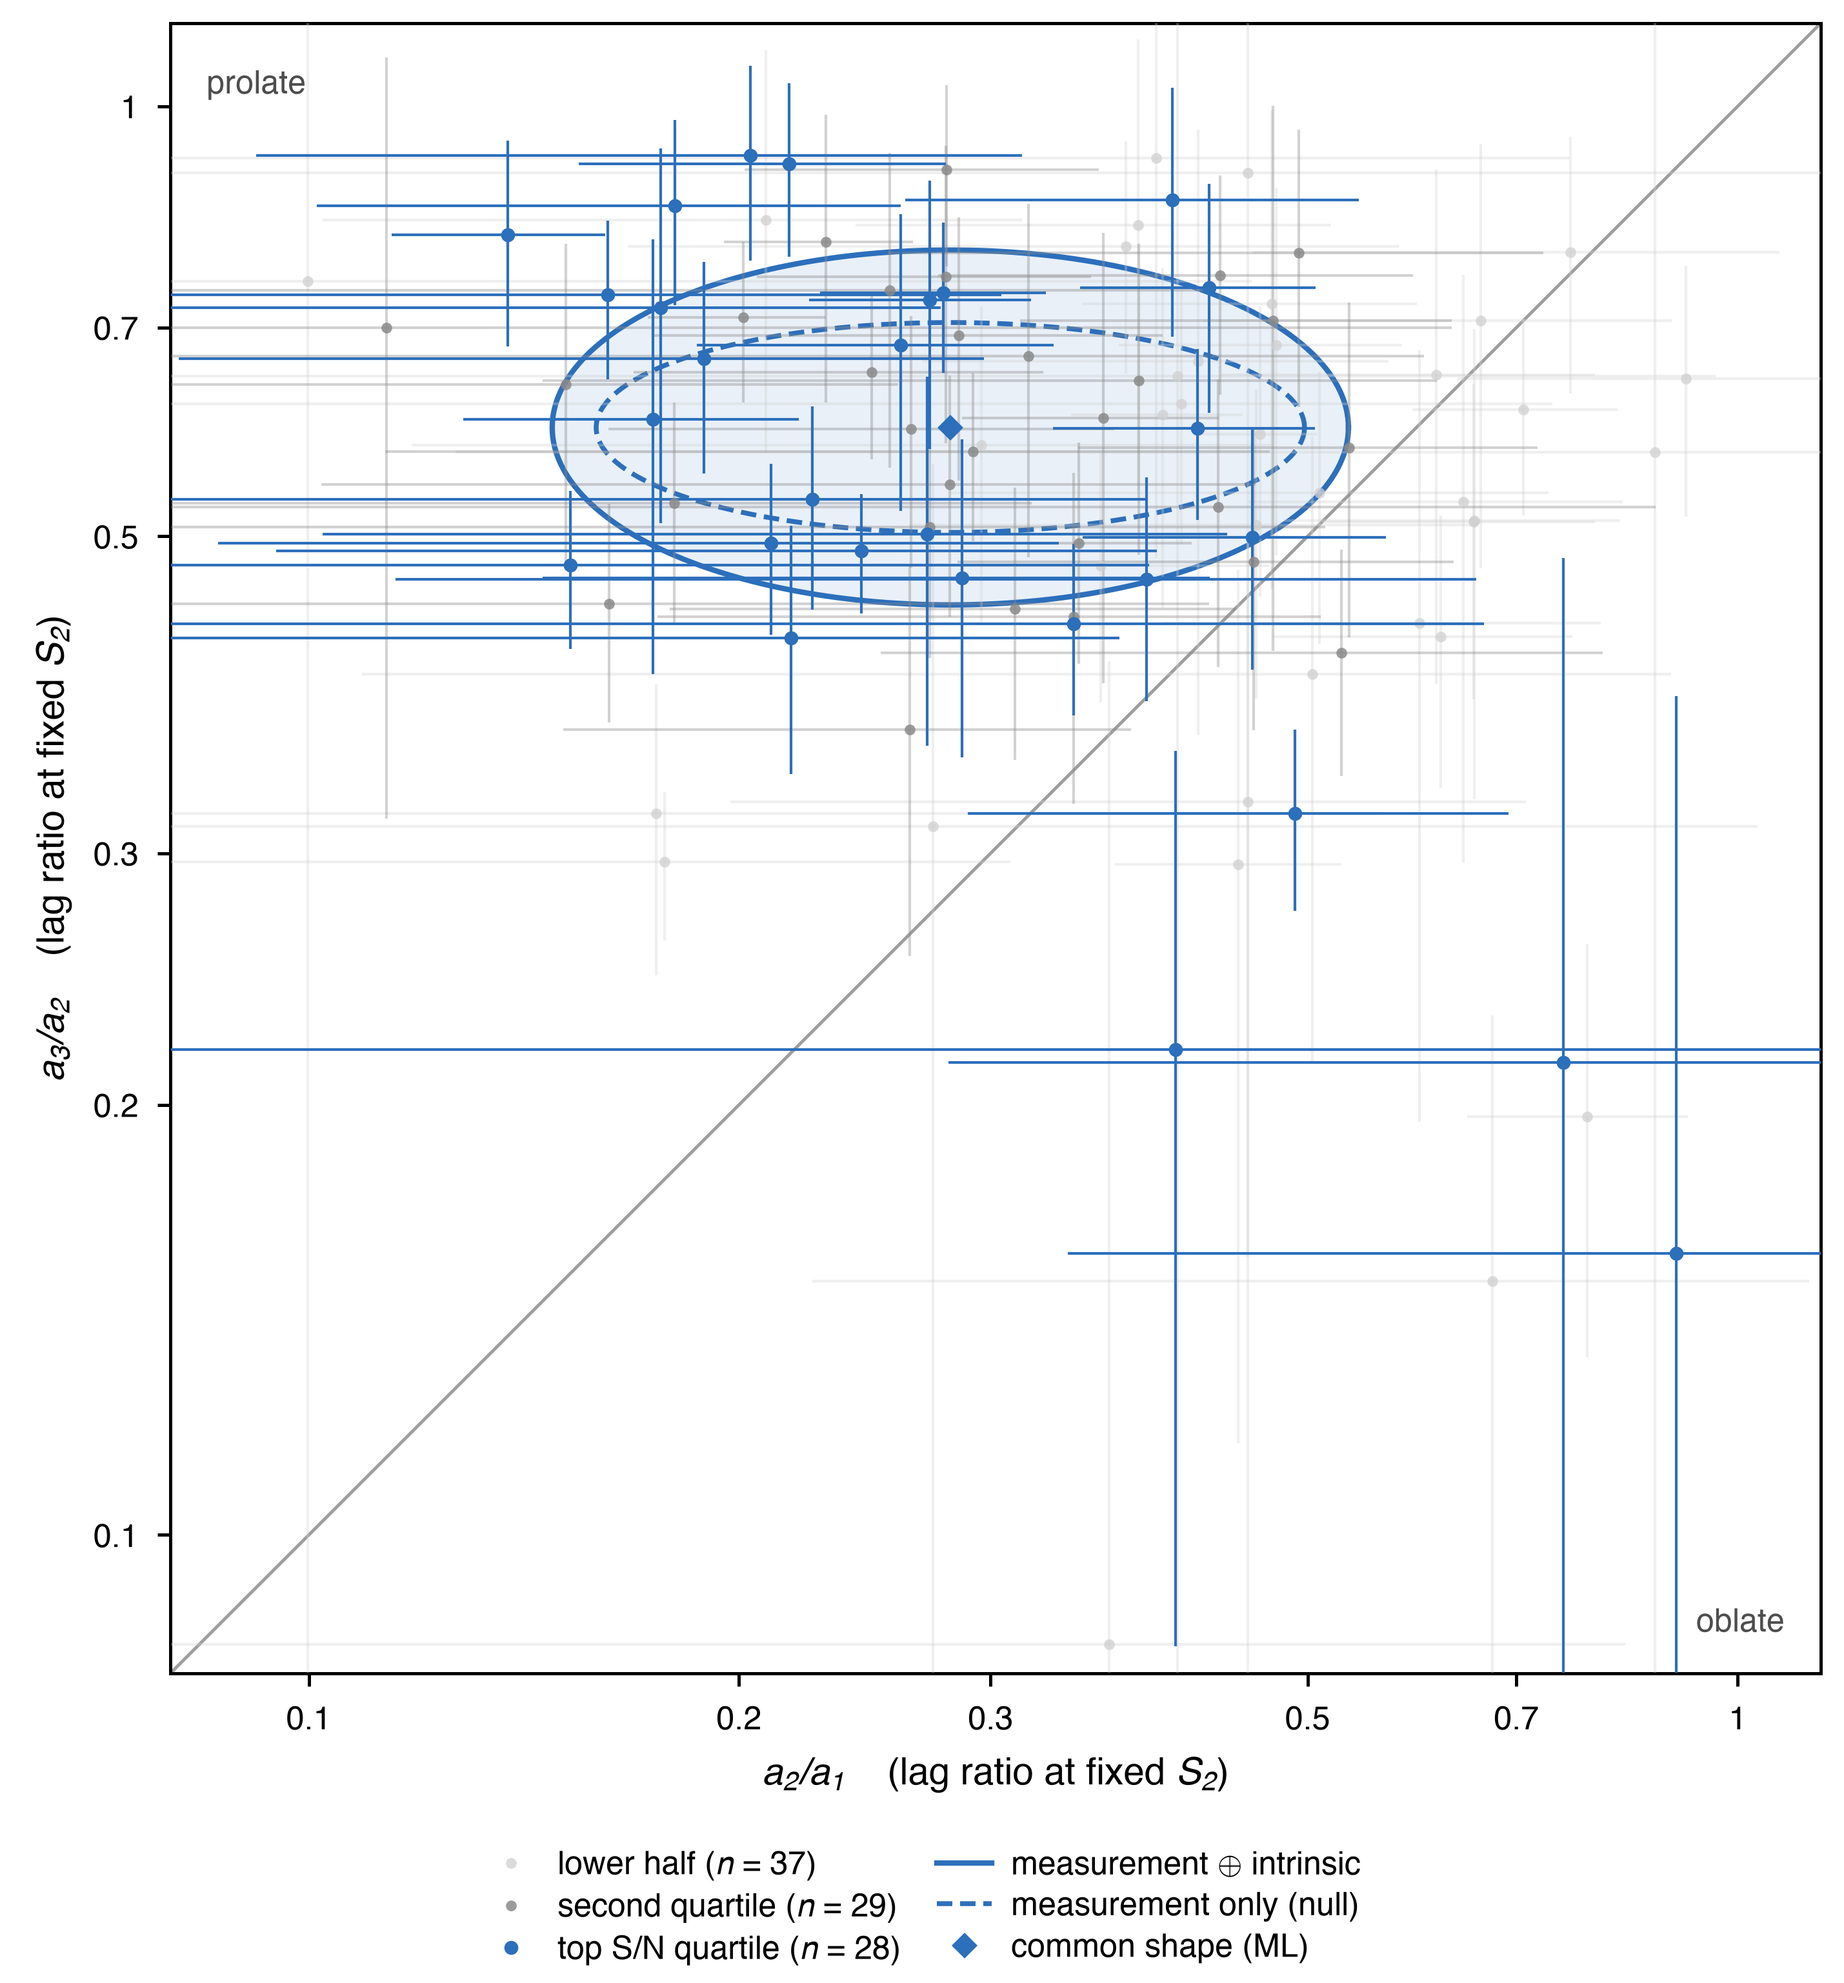
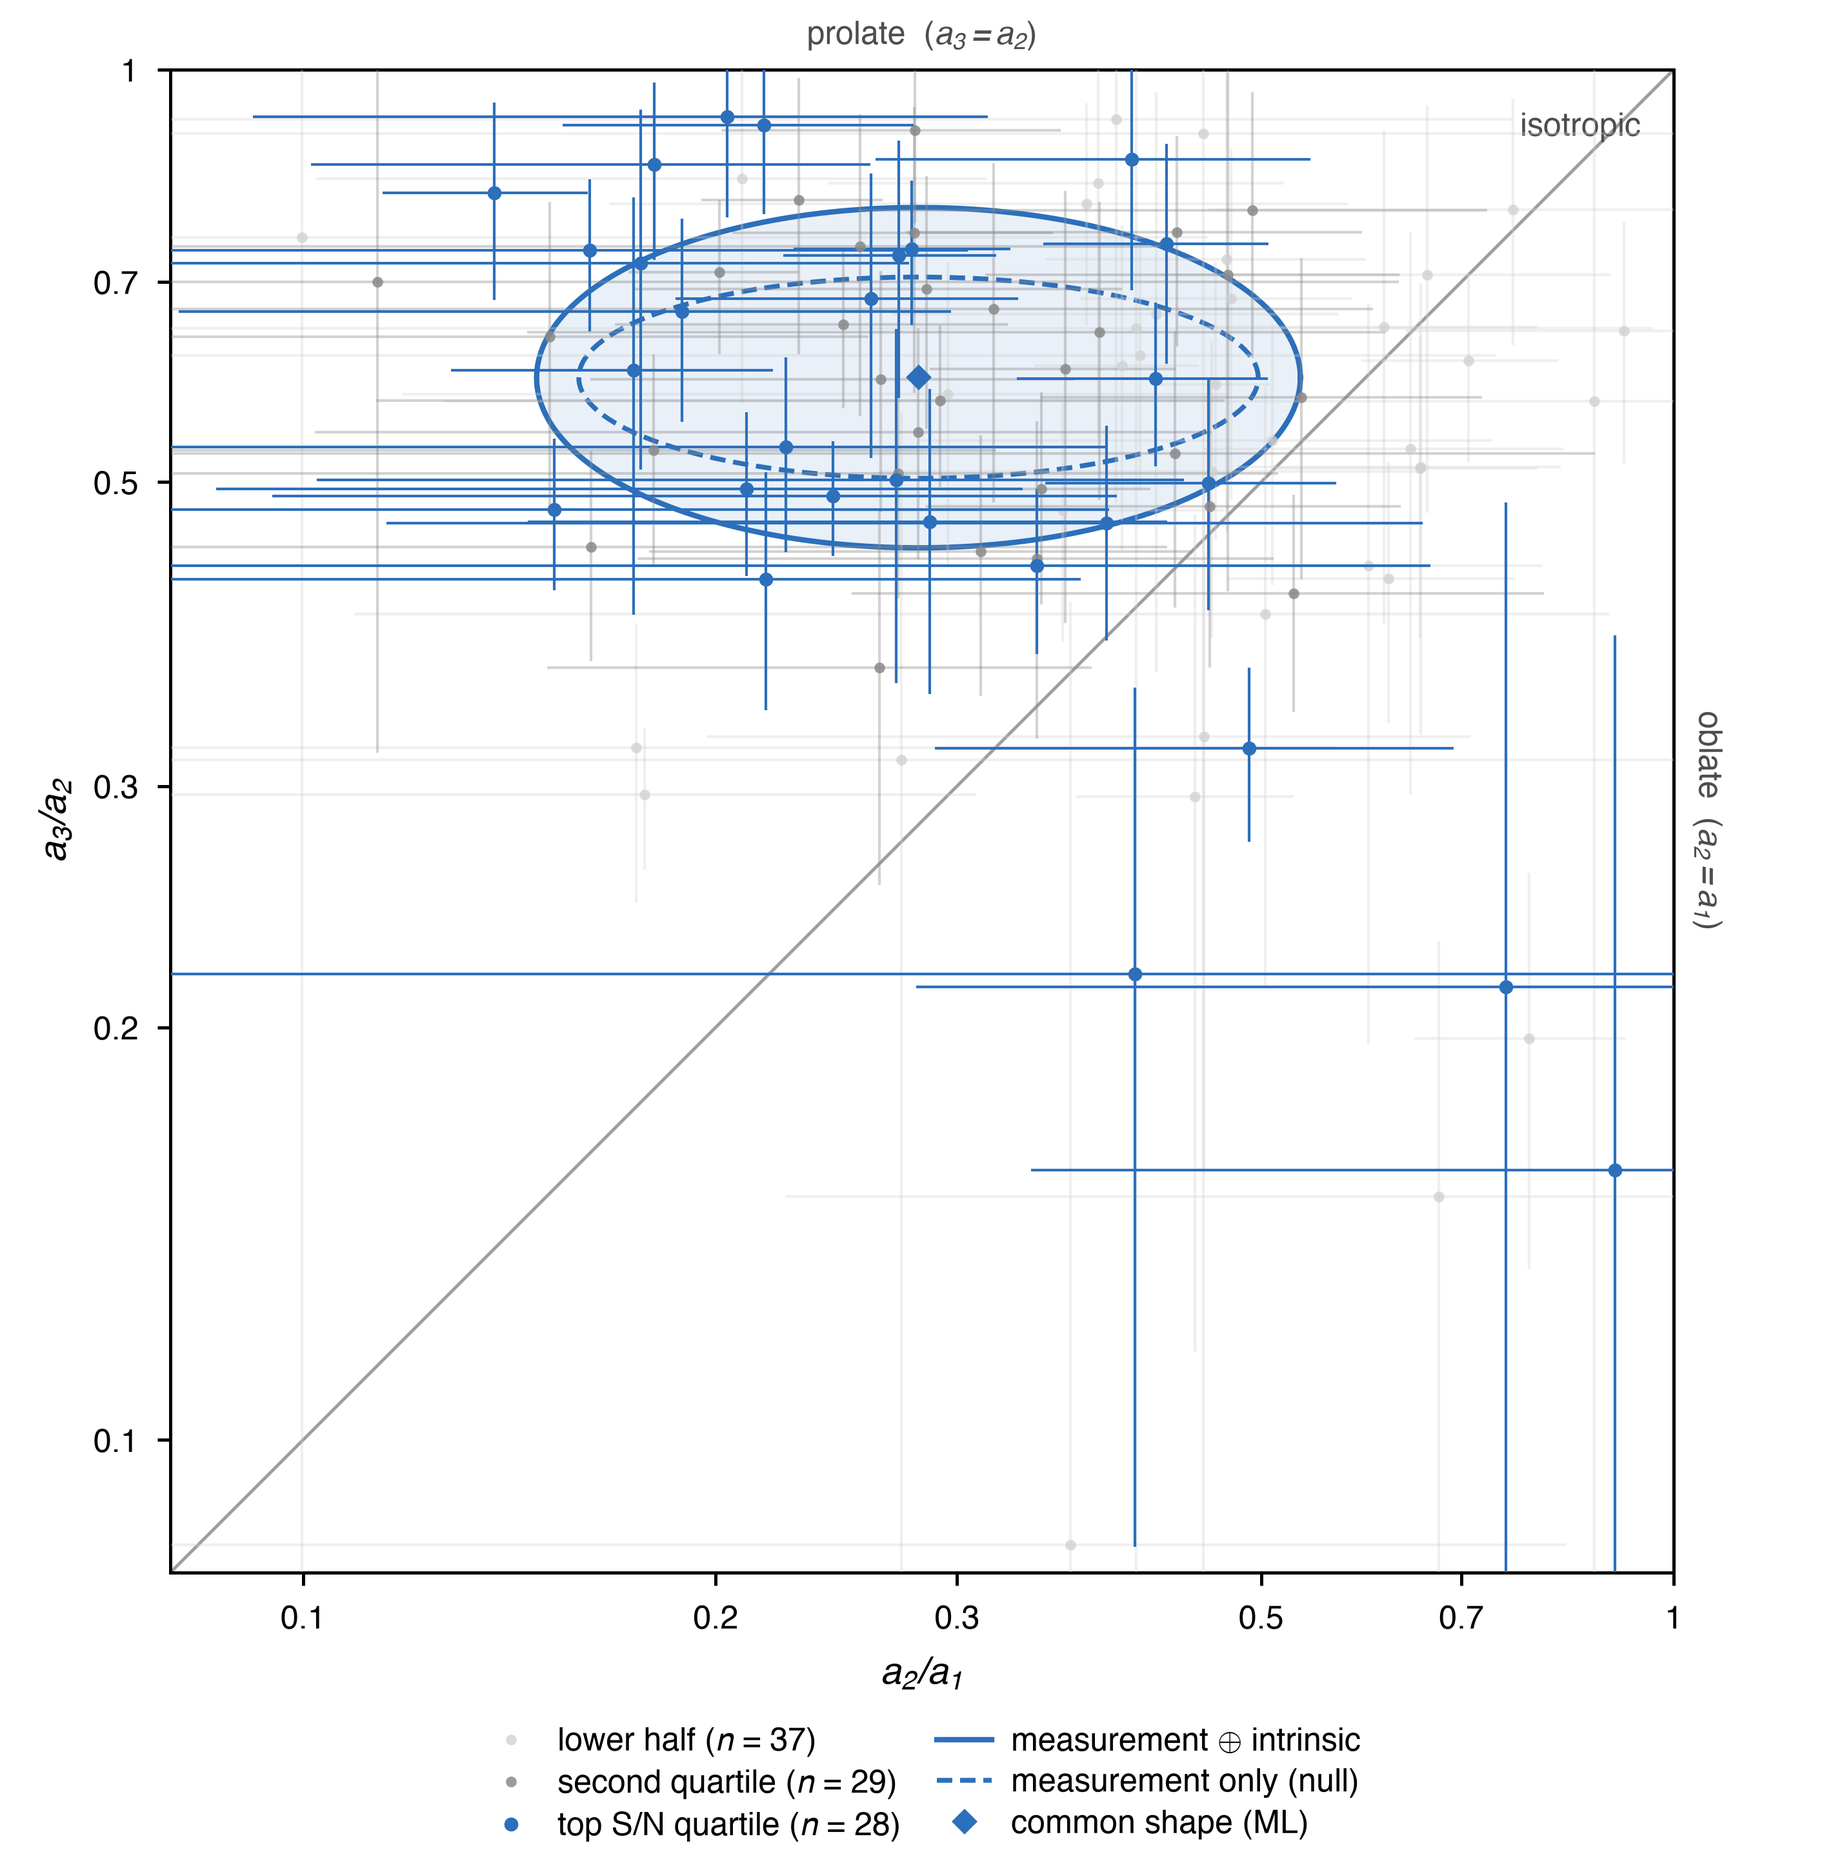
Science shape plane: label the degenerate loci on the edges
Per user request, the prolate/oblate regimes are marked as edges rather
than corners, since each is a whole degenerate locus, not a place.

- clip both axes at exactly 1, the physical limit of each ratio (a1 >= a2
  >= a3), so the top spine IS a3 = a2 and the right spine IS a2 = a1 and
  the frame carries the physics.  Hides no drawn point (max ratios 0.92);
  truncates the upper arm of 9 x- and 15 y-bars at the limit, stated in
  the caption.
- "prolate (a3 = a2)" centred above the top spine, "oblate (a2 = a1)"
  rotated outside the right spine, "isotropic" inside the top-right
  corner (outside would collide; no window has both ratios > 0.80).
- axis labels reduced to the bare ratios; the "lag ratio at fixed S_2"
  gloss moves to the caption, which is now the only place establishing
  that the ratios are independent of the structure-function slope.
- caption disambiguates the two senses of prolate: the diagonal separates
  more-prolate from more-oblate, the marked edges are the exact limits.
- margins re-solved for the new edge labels and one-line axis label.

diff --git a/analysis/make_science_figure.py b/analysis/make_science_figure.py
@@ -143,6 +143,15 @@ def shape_plane_data(k=mtf.K, floor=mtf.FLOOR):
     # calculation, which takes its span from the data minimum.
     d = d_all[(d_all.a2a1 >= mtf.DEGEN) & (d_all.a3a2 >= mtf.DEGEN)].copy()
     rng = mtf.shared_ratio_range(d, floor=floor)
+    # PRINT VERSION ONLY: stop the panel at exactly 1.  Both ratios are <= 1 by
+    # construction (a1 >= a2 >= a3), so the screen version's headroom above
+    # unity is unphysical space, and clipping it makes the frame itself carry
+    # the physics -- the top spine IS the a3 = a2 (prolate) locus, the right
+    # spine IS the a2 = a1 (oblate) locus, and their corner is the sphere.  This
+    # hides no drawn point (max ratios 0.92, 0.92); it does truncate the upper
+    # arm of 9 x- and 15 y-error bars at the physical limit, which is stated in
+    # the caption.  The data minimum still sets the lower end.
+    rng = (rng[0], 1.0)
 
     q4_fit = d_all[d_all.tier == 'q4']
     mu21, s21, _, me21 = mtf.ml_center_and_scatter(q4_fit.a2a1.values,
@@ -207,8 +216,11 @@ def fig_shape_plane_science(S, ncol=2):
     # by hand instead leaves either a non-square panel or a band of dead space
     # under the axis label.
     w = SCIENCE_WIDTH_CM[ncol] * CM
-    L, R, T = 0.44, 0.06, 0.06          # left / right / top margins, inches
-    XLAB, LEGH = 0.30, 0.50             # x-label band, legend band, inches
+    # Right and top margins must now clear the two edge labels (rotated
+    # "oblate (a2 = a1)" on the right, "prolate (a3 = a2)" above); the x-label
+    # band shrank because the label is now the bare ratio on one line.
+    L, R, T = 0.44, 0.44, 0.18          # left / right / top margins, inches
+    XLAB, LEGH = 0.24, 0.50             # x-label band, legend band, inches
     side = w - L - R                    # square panel side
     h = T + side + XLAB + LEGH
     fig = plt.figure(figsize=(w, h))
@@ -286,17 +298,30 @@ def fig_shape_plane_science(S, ncol=2):
         a.set_major_locator(FixedLocator(ratio_ticks(rng)))
         a.set_minor_locator(FixedLocator([]))
         a.set_major_formatter(FuncFormatter(lambda v, _p: ('%g' % v)))
-    ax.set_xlabel(r'$a_2/a_1$    (lag ratio at fixed $S_2$)')
-    ax.set_ylabel(r'$a_3/a_2$    (lag ratio at fixed $S_2$)')
+    # Bare ratios: the parenthetical gloss ("lag ratio at fixed S_2") moves to
+    # the caption at the user's request.  The caption must therefore keep the
+    # sentence establishing that these are lag lengths at fixed S_2 and hence
+    # independent of the structure-function slope -- it is now the only place
+    # that is said.
+    ax.set_xlabel(r'$a_2/a_1$')
+    ax.set_ylabel(r'$a_3/a_2$')
 
     # Which side of the diagonal is which.  Inside the axes, on the side each
     # regime occupies, so the divide needs no key.
-    # The two far corners are the only interior regions with no markers; the
-    # mid-panel positions used in the screen version sit on top of error bars.
-    ax.text(0.022, 0.972, 'prolate', transform=ax.transAxes, ha='left',
+    # Regime labels annotate the EDGES, not corners: prolate is the degenerate
+    # limit a3 = a2, which is the whole top spine, and oblate is a2 = a1, the
+    # whole right spine -- a corner label would imply the regime lives only
+    # there.  Both sit just outside the frame, centred on their spine, so they
+    # cannot land on data; the isotropic label goes inside its corner because
+    # outside it would collide with the other two, and the corner interior is
+    # empty (no window has both ratios above 0.80).
+    ax.text(0.5, 1.012, 'prolate  ($a_3 = a_2$)', transform=ax.transAxes,
+            ha='center', va='bottom', fontsize=SIZES['annot'], color='0.30')
+    ax.text(1.012, 0.5, 'oblate  ($a_2 = a_1$)', transform=ax.transAxes,
+            ha='center', va='bottom', rotation=270, rotation_mode='anchor',
+            fontsize=SIZES['annot'], color='0.30')
+    ax.text(0.978, 0.972, 'isotropic', transform=ax.transAxes, ha='right',
             va='top', fontsize=SIZES['annot'], color='0.30')
-    ax.text(0.978, 0.022, 'oblate', transform=ax.transAxes, ha='right',
-            va='bottom', fontsize=SIZES['annot'], color='0.30')
 
     # --- legend band below the frame -----------------------------------------
     # Points first (three tiers), then the three fit glyphs, in two columns:
@@ -367,12 +392,18 @@ def caption(S):
         'independent of the structure-function slope. Error bars are '
         '$\\pm1\\sigma$ from block jackknife ($k = %d$); on a logarithmic axis '
         'a symmetric bar reaches the axis floor where the uncertainty exceeds '
-        'the value. Windows are split at the quartiles of their echo '
+        'the value. Both axes stop at unity, the physical limit of each ratio, '
+        'so the top and right edges are the prolate ($a_3 = a_2$) and oblate '
+        '($a_2 = a_1$) degenerate loci and their corner is a sphere; error bars '
+        'reaching the limit are truncated there. Windows are split at the '
+        'quartiles of their echo '
         'signal-to-noise ratio (%s) and drawn back to front, so the '
         'best-measured '
         'quartile is never hidden. The grey diagonal is $a_2/a_1 = a_3/a_2$, '
-        'separating prolate (cigar-like) from oblate (pancake-like) '
-        'ellipsoids.\n\n'
+        'on which the two ratios are equal: windows above it are the more '
+        'prolate (cigar-like), those below the more oblate (pancake-like), '
+        'while the marked edges are the limits at which an ellipsoid becomes '
+        'exactly prolate or exactly oblate.\n\n'
         'The blue diamond is the maximum-likelihood common shape of the '
         'highest signal-to-noise quartile, $a_2/a_1 = %.2f$, '
         '$a_3/a_2 = %.2f$. The dashed ellipse is the null hypothesis that '
